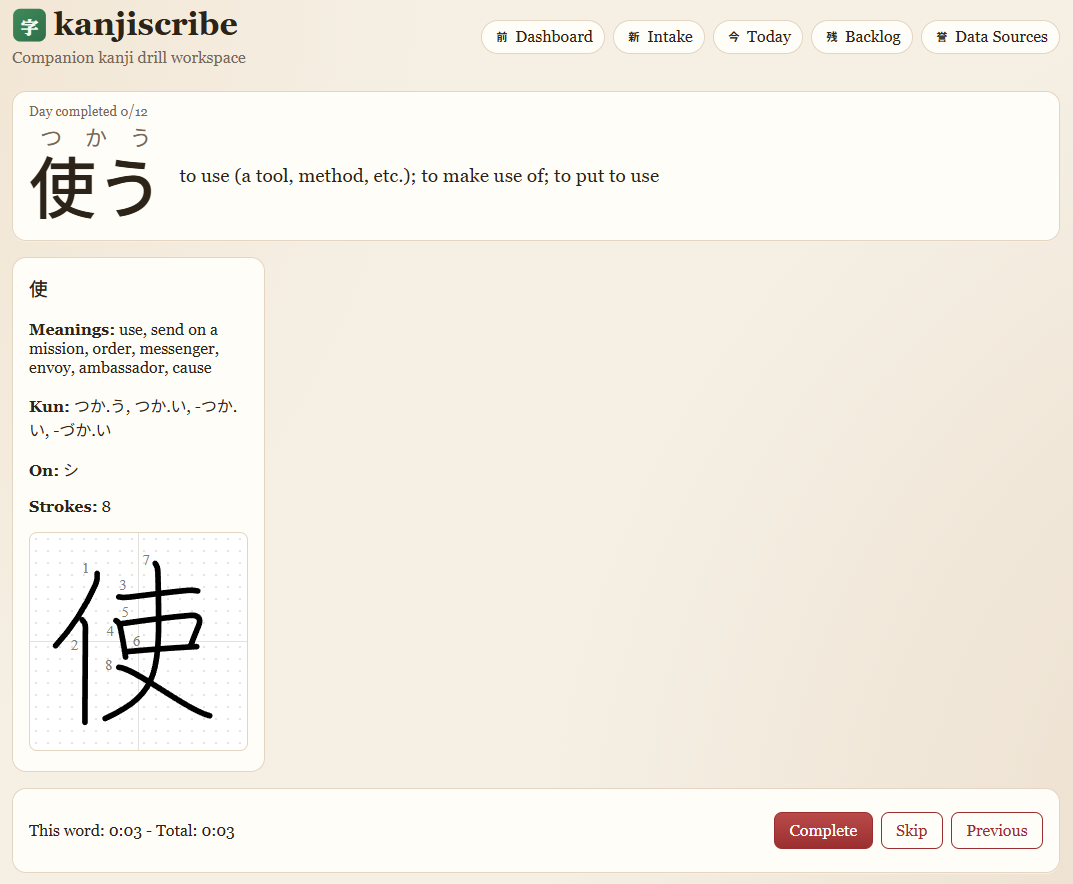
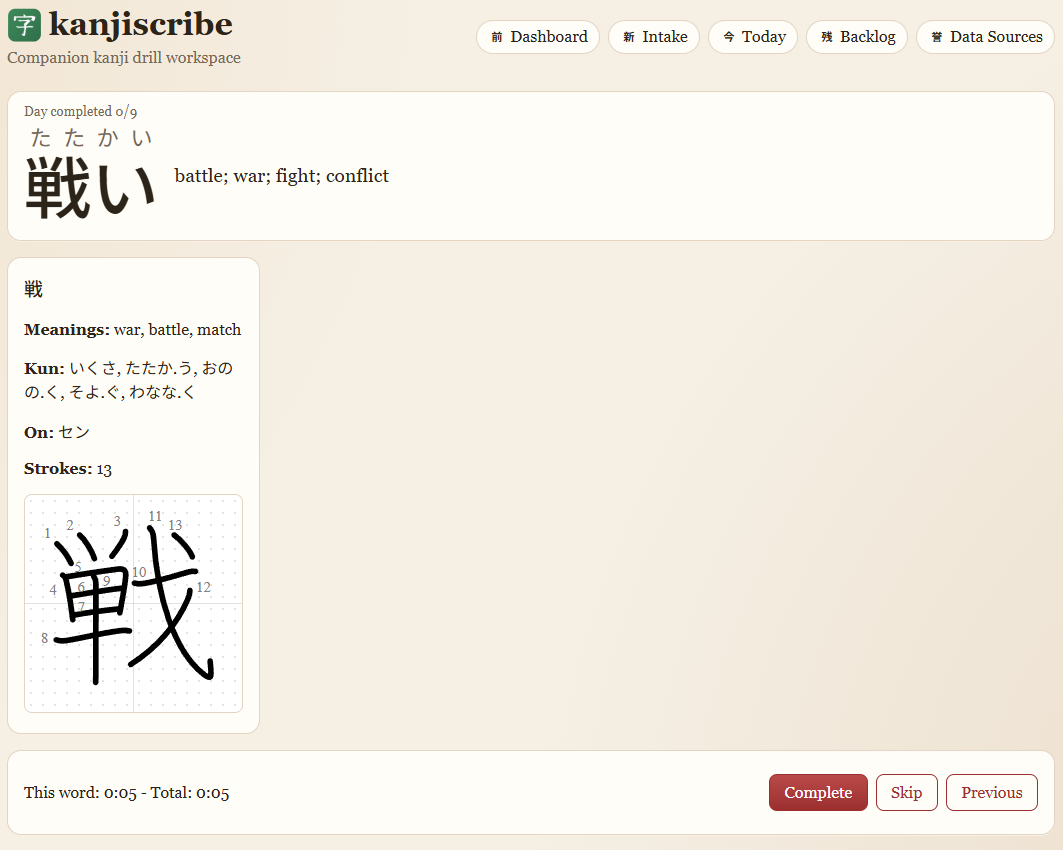
docs: update images in readme (#16)
updating the images & adding logo

diff --git a/README.md b/README.md
@@ -1,4 +1,8 @@
-# kanjiscribe
+<div align="center">
+  <img width="80em" src="apps/web/public/brand-mark.svg" alt="Logo" />
+</div>
+
+<h1 align="center">kanjiscribe</h1>
 
 <div align="center">
   <table>
